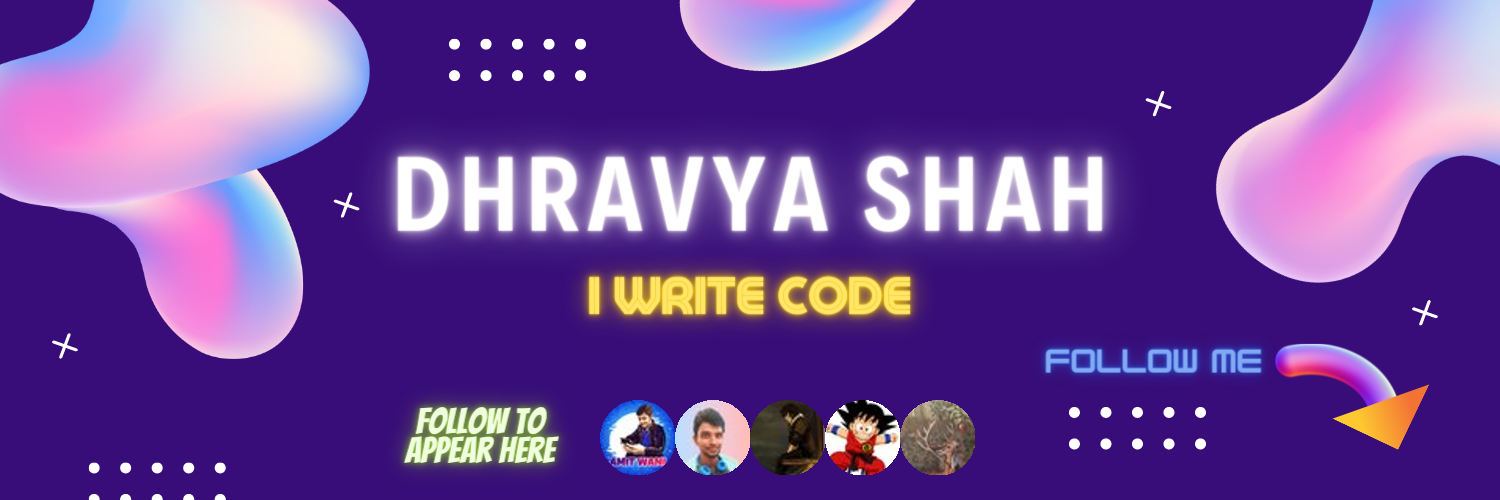
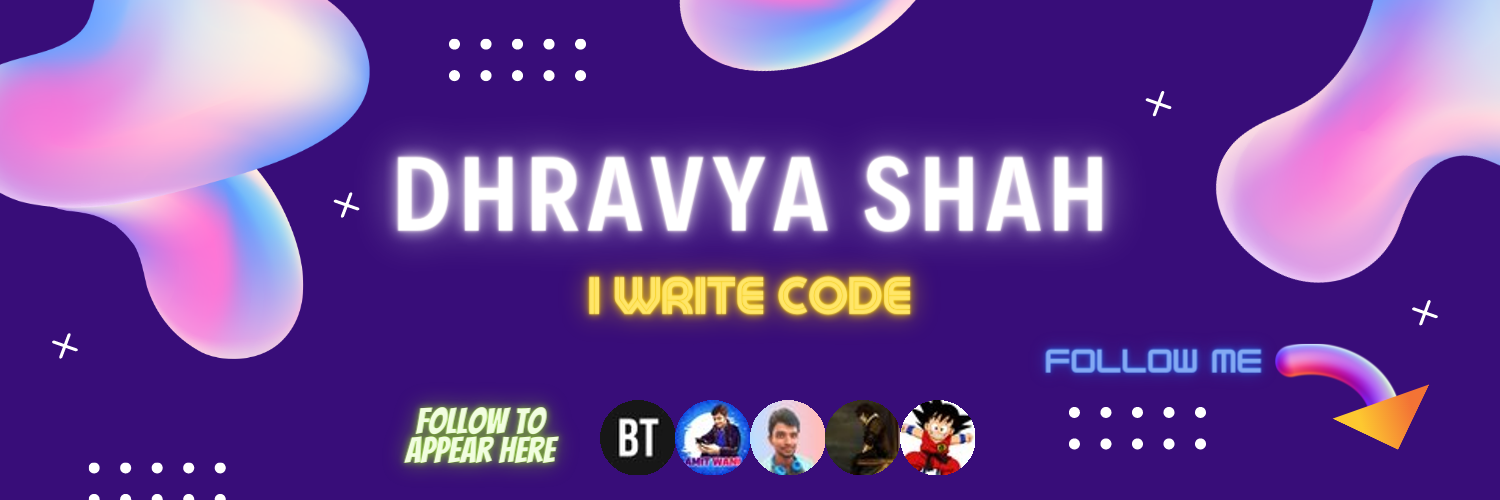
changed to once every 30 minutes, made Dockerfile to run on my computer

Changed region(s): [[0.3987, 0.78, 0.6747, 0.96]]

diff --git a/main.py b/main.py
@@ -89,4 +89,4 @@ class ProfileBanner:
 
 if __name__ == "__main__":
     banner = ProfileBanner()
-    banner.update_every_few_minutes()
+    banner.update_every_few_minutes(30)
